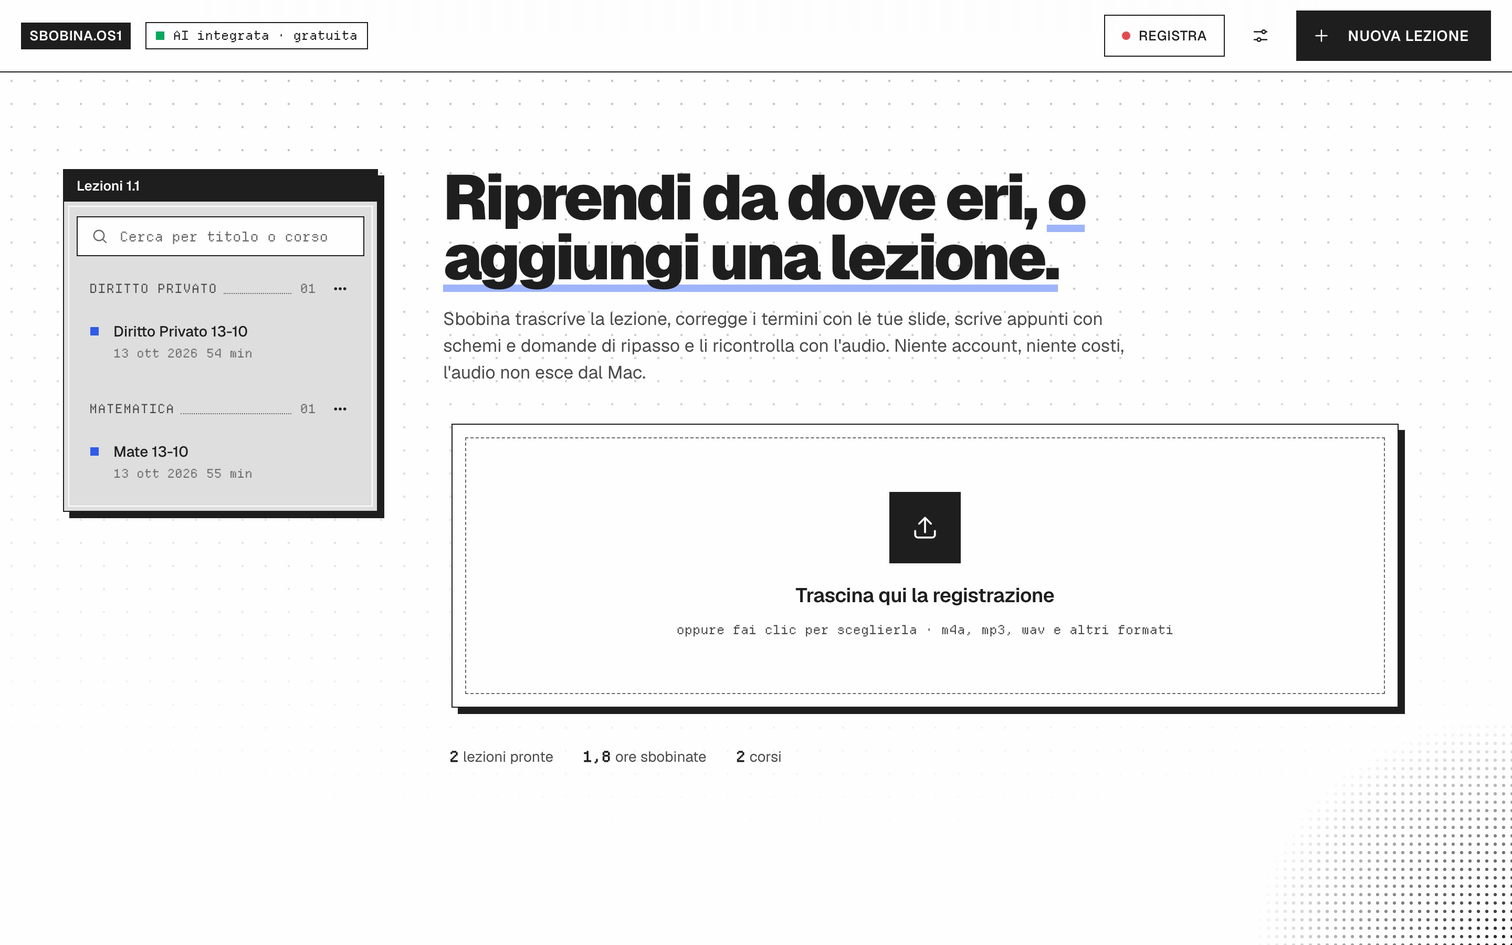
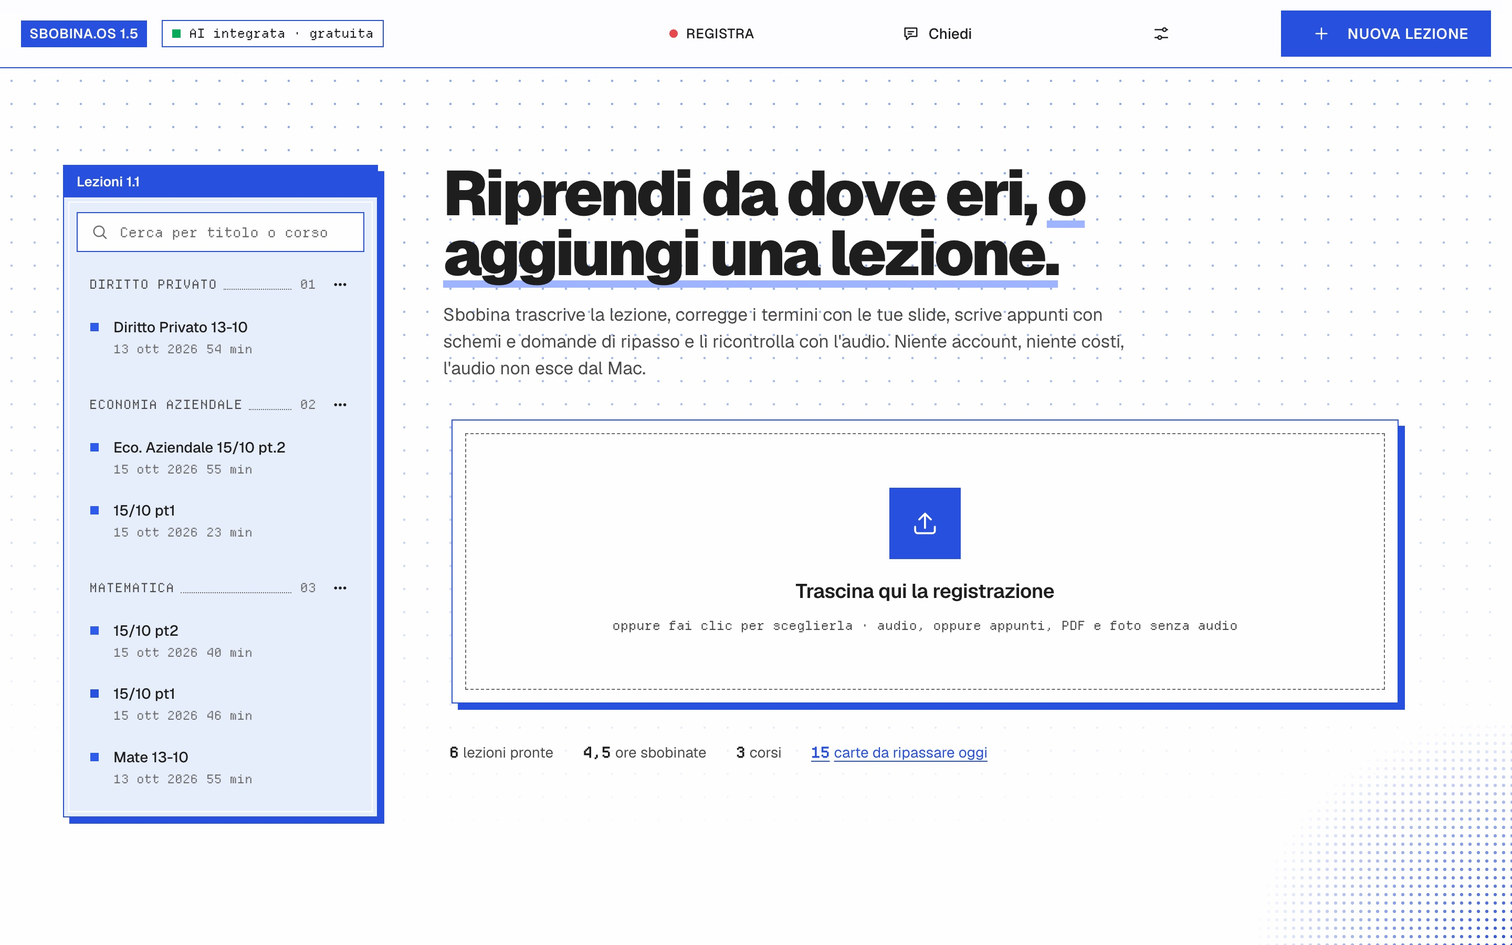
Versione 1.5.0: sito e README con nuove schermate (evidenziatore, Chiedi alle tue lezioni, widget), lezioni senza audio e inglese descritti, Windows indicato come 1.2

diff --git a/docs/index.html b/docs/index.html
@@ -32,7 +32,7 @@
 <!-- ============================ HERO ============================ -->
 <section class="hero" aria-labelledby="titolo">
   <div>
-    <p class="etichetta">Per studenti universitari · in italiano · gratis</p>
+    <p class="etichetta">Per studenti universitari · in italiano e in inglese · gratis</p>
     <h1 id="titolo">Dalla lezione registrata agli appunti, <span class="sotto">sul tuo computer.</span></h1>
   </div>
   <p class="lead">Sbobina prende la registrazione della lezione (nota vocale del telefono, registratore, file di Teams o Zoom) oppure registra dal microfono, e la trasforma in appunti completi per studiare e preparare l'esame: trascrizione corretta, schemi, mappa concettuale, glossario, domande di ripasso e PDF da stampare. Tutto gira sul tuo Mac o PC: niente account, niente costi, l'audio non esce dal computer.</p>
@@ -49,11 +49,8 @@
     <span class="chip">0 € a lezione</span>
   </div>
   <figure class="finestra schermo" style="margin:24px 0 0">
-    <div class="barra"><span>Sbobina 1.1</span><span class="mono">schermata iniziale</span></div>
-    <picture>
-      <source srcset="img/app-scuro.jpg" media="(prefers-color-scheme: dark)">
-      <img src="img/app-chiaro.jpg" width="2880" height="1800" alt="La schermata iniziale di Sbobina: le lezioni divise per corso a sinistra, il titolo «Riprendi da dove eri, o aggiungi una lezione» e la zona dove trascinare la registrazione.">
-    </picture>
+    <div class="barra"><span>Sbobina 1.5</span><span class="mono">schermata iniziale</span></div>
+    <img src="img/app-chiaro.jpg" width="2880" height="1800" alt="La schermata iniziale di Sbobina: le lezioni divise per corso a sinistra, il titolo «Riprendi da dove eri, o aggiungi una lezione», la zona dove trascinare registrazioni, appunti, PDF o foto e i numeri dello studio.">
   </figure>
 </section>
 
@@ -61,17 +58,23 @@
 <section id="schermate" aria-labelledby="t-schermate">
   <p class="etichetta">Dentro l'app</p>
   <h2 id="t-schermate">Com'è, <span class="sotto">davvero</span>.</h2>
-  <p class="lead">Schermate dell'app vera, con due lezioni del primo anno elaborate sul Mac.</p>
+  <p class="lead">Schermate dell'app vera (versione 1.5), con sei lezioni del primo anno elaborate sul Mac.</p>
   <div class="galleria">
     <figure class="finestra"><div class="barra"><span>Appunti</span><span class="mono">Matematica</span></div>
       <img src="img/app-appunti.jpg" width="2880" height="1800" loading="lazy" alt="Gli appunti di una lezione di matematica: lettore audio, schede Appunti, Approfondimento, Trascrizione, Verifica, Ripasso e Chiedi, un riquadro «In sintesi» e la mappa concettuale.">
       <figcaption>Appunti con sintesi, mappa concettuale e il minuto della registrazione accanto a ogni titolo.</figcaption></figure>
+    <figure class="finestra"><div class="barra"><span>Evidenziatore</span><span class="mono">4 colori</span></div>
+      <img src="img/app-evidenzia.jpg" width="2880" height="1800" loading="lazy" alt="Una definizione negli appunti con tre frasi evidenziate in giallo, rosa e verde; formule scritte in LaTeX.">
+      <figcaption>Evidenzia mentre studi, in quattro colori. Un clic sulla frase e l'evidenziazione sparisce.</figcaption></figure>
+    <figure class="finestra"><div class="barra"><span>Chiedi</span><span class="mono">tutte le lezioni</span></div>
+      <img src="img/app-chiedi.jpg" width="2880" height="1800" loading="lazy" alt="La pagina «Chiedi alle tue lezioni»: domande di partenza come «Quali argomenti ha detto che chiederà all'esame?», il campo per scrivere e il filtro per corso.">
+      <figcaption>Una domanda su tutte le lezioni insieme: la risposta dice in quale lezione e a che minuto.</figcaption></figure>
     <figure class="finestra"><div class="barra"><span>Verifica</span><span class="mono">rapporto</span></div>
-      <img src="img/app-verifica.jpg" width="2880" height="1800" loading="lazy" alt="La scheda Verifica: il giudizio sugli appunti, nessun problema trovato e i termini aggiunti al glossario del corso; sotto, i pulsanti Scarica il PDF, Stampa, Markdown, Trascrizione, Rielabora e Glossario.">
+      <img src="img/app-verifica.jpg" width="2880" height="1800" loading="lazy" alt="La scheda Verifica: il giudizio sugli appunti, nessun problema trovato e i termini aggiunti al glossario del corso; sotto, i pulsanti Scarica il PDF, Altri PDF, Stampa, Markdown, Trascrizione, Rielabora e Glossario.">
       <figcaption>Il controllo degli appunti contro la trascrizione e i termini aggiunti al glossario.</figcaption></figure>
     <figure class="finestra"><div class="barra"><span>Registra</span><span class="mono">● REC</span></div>
-      <img src="img/app-registra.jpg" width="2880" height="1800" loading="lazy" alt="Il registratore: il livello del segnale, il tempo 0:00, i campi Corso e Titolo e il pulsante Inizia a registrare.">
-      <figcaption>Registra dal microfono: alla fine gli appunti partono da soli.</figcaption></figure>
+      <img src="img/app-registra.jpg" width="2880" height="1800" loading="lazy" alt="Il registratore: il riquadro del segnale, il tempo 0:00, i campi Corso e Titolo e il pulsante Inizia a registrare.">
+      <figcaption>Registra dal microfono, oppure dal widget sempre in primo piano.</figcaption></figure>
     <figure class="finestra"><div class="barra"><span>Impostazioni</span><span class="mono">appunti · AI</span></div>
       <img src="img/app-impostazioni.jpg" width="2880" height="1800" loading="lazy" alt="Le impostazioni: lunghezza e stile degli appunti e gli interruttori per mappa, schemi, domande, glossario, indicazioni del docente, approfondimento e verifica.">
       <figcaption>Scegli lunghezza, stile e quali sezioni scrivere.</figcaption></figure>
@@ -136,14 +139,20 @@
       <p>Carte create dalla lezione e ripasso a scatole: quelle che sbagli tornano più spesso. Esportabili per Anki.</p></div></article>
     <article class="finestra"><div class="barra"><span>Quiz</span><span class="mono">A B C D</span></div><div class="corpo">
       <p>Domande a scelta multipla con la spiegazione di ogni risposta.</p></div></article>
-    <article class="finestra"><div class="barra"><span>Chiedi alla lezione</span><span class="mono">?</span></div><div class="corpo">
-      <p>Fai una domanda: la risposta cita il minuto della registrazione da cui viene.</p></div></article>
+    <article class="finestra"><div class="barra"><span>Chiedi</span><span class="mono">?</span></div><div class="corpo">
+      <p>Fai una domanda a una lezione o a tutte insieme, anche filtrando per corso: la risposta usa solo i tuoi appunti e dice da quale lezione e da che minuto viene.</p></div></article>
+    <article class="finestra"><div class="barra"><span>Evidenziatore</span><span class="mono">4 colori</span></div><div class="corpo">
+      <p>Seleziona una frase e scegli il colore. Le evidenziazioni restano finché l'app è aperta e non finiscono nel PDF.</p></div></article>
     <article class="finestra"><div class="barra"><span>Cerca</span><span class="mono">/</span></div><div class="corpo">
       <p>Cerca nel testo di tutte le lezioni di tutti i corsi.</p></div></article>
     <article class="finestra"><div class="barra"><span>Modifica</span><span class="mono">✎</span></div><div class="corpo">
       <p>Correggi o completa gli appunti a mano: le tue modifiche restano.</p></div></article>
     <article class="finestra"><div class="barra"><span>Registra</span><span class="mono">● REC</span></div><div class="corpo">
-      <p>Registra la lezione dal microfono, con il livello dell'audio in tempo reale. Alla fine gli appunti partono da soli.</p></div></article>
+      <p>Registra dal microfono, con il livello dell'audio in tempo reale. Il widget resta sopra le altre finestre, va in pausa e si chiude nella barra dei menu; con Stop salva la registrazione e gli appunti li crei quando vuoi.</p></div></article>
+    <article class="finestra"><div class="barra"><span>Senza audio</span><span class="mono">PDF · foto</span></div><div class="corpo">
+      <p>Niente registrazione? Sbobina crea gli appunti anche da soli appunti, PDF (pure scansionati) o foto della lavagna.</p></div></article>
+    <article class="finestra"><div class="barra"><span>English</span><span class="mono">IT · EN</span></div><div class="corpo">
+      <p>Interfaccia, appunti, PDF e trascrizione anche in inglese, per i corsi tenuti in inglese.</p></div></article>
   </div>
 </section>
 
@@ -181,7 +190,7 @@
     <a class="finestra download" href="https://github.com/swumpyyy/sbobina/releases/latest/download/Sbobina-macOS.dmg"><div class="barra"><span>macOS</span><span class="mono">.dmg</span></div><div class="corpo">
       <h3>Sbobina per Mac</h3><p>Mac con chip Apple (M1 o successivi), macOS 12 o più recente. Apri il .dmg e trascina Sbobina in Applicazioni.</p><span class="tasto pieno">Scarica per Mac</span></div></a>
     <a class="finestra download" href="https://github.com/swumpyyy/sbobina/releases/latest/download/Sbobina-Windows.zip"><div class="barra"><span>Windows</span><span class="mono">.zip</span></div><div class="corpo">
-      <h3>Sbobina per Windows</h3><p>Windows 10 o 11, consigliata una scheda NVIDIA. Estrai lo zip e fai doppio clic su <b>Installa Sbobina.bat</b>.</p><span class="tasto pieno">Scarica per Windows</span></div></a>
+      <h3>Sbobina per Windows</h3><p>Windows 10 o 11, consigliata una scheda NVIDIA. Estrai lo zip e fai doppio clic su <b>Installa Sbobina.bat</b>. Per ora è la versione 1.2: le novità più recenti arrivano più avanti.</p><span class="tasto pieno">Scarica per Windows</span></div></a>
   </div>
   <p class="nota">Al primo avvio su Mac: tasto destro sull'app → <b>Apri</b>, perché l'app non è ancora firmata da Apple. Tutte le versioni sono nella pagina <a href="https://github.com/swumpyyy/sbobina/releases">Releases di GitHub</a>.</p>
   <h3 style="margin-top:56px">Dal codice sorgente</h3>

diff --git a/docs/en/index.html b/docs/en/index.html
@@ -32,7 +32,7 @@
 <!-- ============================ HERO ============================ -->
 <section class="hero" aria-labelledby="title">
   <div>
-    <p class="etichetta">For university students · free</p>
+    <p class="etichetta">For university students · Italian and English · free</p>
     <h1 id="title">From the recorded lecture to study notes, <span class="sotto">on your own computer.</span></h1>
   </div>
   <p class="lead">Sbobina takes a lecture recording (a phone voice memo, a recorder, a Teams or Zoom file), or records from the microphone, and turns it into complete notes for studying and exam prep: a corrected transcript, outlines, a concept map, a glossary, review questions and a printable PDF. Everything runs on your Mac or PC. No account, no cost, and the audio never leaves your computer.</p>
@@ -48,13 +48,10 @@
     <span class="chip nudo">Gemma 4</span>
     <span class="chip">€0 per lecture</span>
   </div>
-  <p class="nota">Good to know: the app's interface and the notes it writes are in Italian, because it was built for Italian lectures.</p>
+  <p class="nota">Built for Italian lectures, and since 1.4.1 also in English: switch the language in Settings and the interface, the notes, the PDF and the transcription follow.</p>
   <figure class="finestra schermo" style="margin:24px 0 0">
-    <div class="barra"><span>Sbobina 1.1</span><span class="mono">home screen</span></div>
-    <picture>
-      <source srcset="../img/app-scuro.jpg" media="(prefers-color-scheme: dark)">
-      <img src="../img/app-chiaro.jpg" width="2880" height="1800" alt="Sbobina's home screen: lectures grouped by course on the left, the heading «Pick up where you left off, or add a lecture» and the area where you drop a recording.">
-    </picture>
+    <div class="barra"><span>Sbobina 1.5</span><span class="mono">home screen</span></div>
+    <img src="../img/app-chiaro.jpg" width="2880" height="1800" alt="Sbobina's home screen (Italian interface): lectures grouped by course on the left, the heading «Pick up where you left off, or add a lecture», the area where you drop recordings, notes, PDFs or photos, and your study numbers.">
   </figure>
 </section>
 
@@ -62,17 +59,23 @@
 <section id="screens" aria-labelledby="t-screens">
   <p class="etichetta">Inside the app</p>
   <h2 id="t-screens">What it <span class="sotto">really</span> looks like.</h2>
-  <p class="lead">Screenshots of the real app, with two first-year lectures processed on a Mac.</p>
+  <p class="lead">Screenshots of the real app (version 1.5, Italian interface), with six first-year lectures processed on a Mac.</p>
   <div class="galleria">
     <figure class="finestra"><div class="barra"><span>Notes</span><span class="mono">Maths</span></div>
       <img src="../img/app-appunti.jpg" width="2880" height="1800" loading="lazy" alt="Notes for a maths lecture: audio player, tabs for Notes, Deep dive, Transcript, Check, Review and Ask, an «In short» box and the concept map.">
       <figcaption>Notes with a summary, a concept map and the recording timestamp next to every heading.</figcaption></figure>
+    <figure class="finestra"><div class="barra"><span>Highlighter</span><span class="mono">4 colours</span></div>
+      <img src="../img/app-evidenzia.jpg" width="2880" height="1800" loading="lazy" alt="A definition in the notes with three phrases highlighted in yellow, pink and green; formulas typeset with LaTeX.">
+      <figcaption>Highlight while you study, in four colours. Click a phrase to remove it.</figcaption></figure>
+    <figure class="finestra"><div class="barra"><span>Ask</span><span class="mono">all lectures</span></div>
+      <img src="../img/app-chiedi.jpg" width="2880" height="1800" loading="lazy" alt="The «Ask your lectures» page: starter questions such as «Which topics did the teacher say will be on the exam?», the input field and the course filter.">
+      <figcaption>One question across all your lectures: the answer says which lecture and which minute it comes from.</figcaption></figure>
     <figure class="finestra"><div class="barra"><span>Check</span><span class="mono">report</span></div>
-      <img src="../img/app-verifica.jpg" width="2880" height="1800" loading="lazy" alt="The Check tab: the verdict on the notes, no problems found, and the terms added to the course glossary; below, buttons to download the PDF, print, export Markdown or the transcript, reprocess and open the glossary.">
+      <img src="../img/app-verifica.jpg" width="2880" height="1800" loading="lazy" alt="The Check tab: the verdict on the notes, no problems found, and the terms added to the course glossary; below, buttons to download the PDF or other PDFs, print, export Markdown or the transcript, reprocess and open the glossary.">
       <figcaption>The notes checked against the transcript, and the terms added to the course glossary.</figcaption></figure>
     <figure class="finestra"><div class="barra"><span>Record</span><span class="mono">● REC</span></div>
-      <img src="../img/app-registra.jpg" width="2880" height="1800" loading="lazy" alt="The recorder: the signal level, the 0:00 timer, Course and Title fields and the Start recording button.">
-      <figcaption>Record from the microphone: when you stop, the notes start by themselves.</figcaption></figure>
+      <img src="../img/app-registra.jpg" width="2880" height="1800" loading="lazy" alt="The recorder: the signal panel, the 0:00 timer, Course and Title fields and the Start recording button.">
+      <figcaption>Record from the microphone, or from the always-on-top widget.</figcaption></figure>
     <figure class="finestra"><div class="barra"><span>Settings</span><span class="mono">notes · AI</span></div>
       <img src="../img/app-impostazioni.jpg" width="2880" height="1800" loading="lazy" alt="Settings: length and style of the notes, and switches for the concept map, diagrams, questions, glossary, teacher's hints, deep dive and check.">
       <figcaption>Choose length, style and which sections to write.</figcaption></figure>
@@ -138,13 +141,19 @@
     <article class="finestra"><div class="barra"><span>Quiz</span><span class="mono">A B C D</span></div><div class="corpo">
       <p>Multiple-choice questions with an explanation for every answer.</p></div></article>
     <article class="finestra"><div class="barra"><span>Ask the lecture</span><span class="mono">?</span></div><div class="corpo">
-      <p>Ask a question: the answer cites the minute of the recording it comes from.</p></div></article>
+      <p>Ask one lecture or all of them at once, optionally filtered by course: the answer uses only your notes and says which lecture and minute it comes from.</p></div></article>
+    <article class="finestra"><div class="barra"><span>Highlighter</span><span class="mono">4 colours</span></div><div class="corpo">
+      <p>Select a phrase and pick a colour. Highlights last while the app is open and stay out of the PDF.</p></div></article>
     <article class="finestra"><div class="barra"><span>Search</span><span class="mono">/</span></div><div class="corpo">
       <p>Search the text of every lecture in every course.</p></div></article>
     <article class="finestra"><div class="barra"><span>Edit</span><span class="mono">✎</span></div><div class="corpo">
       <p>Fix or complete the notes by hand: your changes stay, and the AI version can be restored.</p></div></article>
     <article class="finestra"><div class="barra"><span>Record</span><span class="mono">● REC</span></div><div class="corpo">
-      <p>Record the lecture from the microphone with a live audio level. When you stop, the notes start by themselves.</p></div></article>
+      <p>Record from the microphone with a live audio level. The widget stays above other windows, pauses, and tucks into the menu bar; Stop saves the recording and you make the notes whenever you like.</p></div></article>
+    <article class="finestra"><div class="barra"><span>No audio</span><span class="mono">PDF · photos</span></div><div class="corpo">
+      <p>No recording? Sbobina also builds notes from your own notes, PDFs (scanned ones too) or photos of the board.</p></div></article>
+    <article class="finestra"><div class="barra"><span>Language</span><span class="mono">IT · EN</span></div><div class="corpo">
+      <p>Interface, notes, PDF and transcription in Italian or English, for courses taught in either language.</p></div></article>
   </div>
 </section>
 
@@ -182,7 +191,7 @@
     <a class="finestra download" href="https://github.com/swumpyyy/sbobina/releases/latest/download/Sbobina-macOS.dmg"><div class="barra"><span>macOS</span><span class="mono">.dmg</span></div><div class="corpo">
       <h3>Sbobina for Mac</h3><p>A Mac with an Apple chip (M1 or later), macOS 12 or newer. Open the .dmg and drag Sbobina into Applications.</p><span class="tasto pieno">Download for Mac</span></div></a>
     <a class="finestra download" href="https://github.com/swumpyyy/sbobina/releases/latest/download/Sbobina-Windows.zip"><div class="barra"><span>Windows</span><span class="mono">.zip</span></div><div class="corpo">
-      <h3>Sbobina for Windows</h3><p>Windows 10 or 11, an NVIDIA graphics card recommended. Extract the zip and double-click <b>Installa Sbobina.bat</b>.</p><span class="tasto pieno">Download for Windows</span></div></a>
+      <h3>Sbobina for Windows</h3><p>Windows 10 or 11, an NVIDIA graphics card recommended. Extract the zip and double-click <b>Installa Sbobina.bat</b>. For now this is version 1.2: the newest features come later.</p><span class="tasto pieno">Download for Windows</span></div></a>
   </div>
   <p class="nota">First launch on a Mac: right-click the app → <b>Open</b>, because the app is not signed by Apple yet. Every version is on the <a href="https://github.com/swumpyyy/sbobina/releases">GitHub Releases page</a>.</p>
   <h3 style="margin-top:56px">From source</h3>

diff --git a/sbobina/static/index.html b/sbobina/static/index.html
@@ -22,7 +22,7 @@
       <rect x=".5" y=".5" width="31" height="31" rx="9.5" fill="none" stroke="#fff" stroke-opacity=".35"/>
       <g stroke="#fff" stroke-width="2.4" stroke-linecap="round"><path d="M9 13v6M13 10v12M17 8v16M21 11v10M25 14v4"/></g>
     </svg>
-    <span>SBOBINA.OS 1.4</span>
+    <span>SBOBINA.OS 1.5</span>
   </a>
   <span class="stato-ai" id="stato-ai" role="status"></span>
   <span class="spazio"></span>

diff --git a/sbobina/__init__.py b/sbobina/__init__.py
@@ -5,4 +5,4 @@ import os
 # Il protocollo Xet di Hugging Face si blocca a pochi KB su questo Mac: scarica i modelli Whisper via HTTP.
 os.environ.setdefault("HF_HUB_DISABLE_XET", "1")
 
-__version__ = "1.4.0"
+__version__ = "1.5.0"

diff --git a/README.md b/README.md
@@ -24,10 +24,18 @@ per non far inventare nulla agli appunti.
 <table>
 <tr>
 <td><img src="docs/img/app-appunti.jpg" alt="Gli appunti di una lezione con sintesi e mappa concettuale"></td>
-<td><img src="docs/img/app-verifica.jpg" alt="Il rapporto di verifica degli appunti e i termini del glossario"></td>
+<td><img src="docs/img/app-evidenzia.jpg" alt="Frasi evidenziate in tre colori negli appunti"></td>
 </tr>
 <tr>
 <td align="center"><sub>Appunti con sintesi e mappa concettuale</sub></td>
+<td align="center"><sub>Evidenziatore in quattro colori</sub></td>
+</tr>
+<tr>
+<td><img src="docs/img/app-chiedi.jpg" alt="Chiedi alle tue lezioni"></td>
+<td><img src="docs/img/app-verifica.jpg" alt="Il rapporto di verifica degli appunti e i termini del glossario"></td>
+</tr>
+<tr>
+<td align="center"><sub>Chiedi a tutte le tue lezioni insieme</sub></td>
 <td align="center"><sub>Verifica degli appunti contro la trascrizione</sub></td>
 </tr>
 <tr>
@@ -35,12 +43,14 @@ per non far inventare nulla agli appunti.
 <td><img src="docs/img/app-impostazioni.jpg" alt="Le impostazioni degli appunti"></td>
 </tr>
 <tr>
-<td align="center"><sub>Registra dal microfono</sub></td>
+<td align="center"><sub>Registra dal microfono (o dal widget)</sub></td>
 <td align="center"><sub>Lunghezza, stile e sezioni degli appunti</sub></td>
 </tr>
 </table>
 
-> **English:** Sbobina turns lecture recordings into complete study notes (corrected transcript, outlines, concept map, glossary, review questions, PDF), fully on your own Mac or Windows PC, for free. The app and the notes are in Italian. [Read more in English →](https://sbobina.vercel.app/en/)
+<p align="center"><img src="docs/img/app-widget.png" alt="Il widget di registrazione: Registratore, Pronto a registrare, tasto Registra" width="400"><br><sub>Il widget di registrazione, sempre in primo piano</sub></p>
+
+> **English:** Sbobina turns lecture recordings into complete study notes (corrected transcript, outlines, concept map, glossary, review questions, PDF), fully on your own Mac or Windows PC, for free. Interface and notes in Italian or English (switch in Settings). [Read more in English →](https://sbobina.vercel.app/en/)
 
 ## Cosa ottieni per ogni lezione
 
@@ -58,8 +68,13 @@ per non far inventare nulla agli appunti.
   la trascrizione. **PDF di tutto il corso** con indice. Esportazione in **Markdown** e in una cartella
   per **Obsidian** (una nota per lezione, con collegamenti).
 - **Per studiare**: **flashcard** con ripasso a scatole (Leitner) ed esportazione per **Anki**, **quiz** a
-  scelta multipla con spiegazioni, **Chiedi alla lezione** (risposte che citano il minuto), **ricerca**
-  nel testo di tutte le lezioni, **modifica a mano** degli appunti.
+  scelta multipla con spiegazioni, **Chiedi** a una lezione o a **tutte le tue lezioni** insieme (risposte
+  che citano lezione e minuto), **evidenziatore** in quattro colori (resta finché l'app è aperta, non va
+  nel PDF), **ricerca** nel testo di tutte le lezioni, **modifica a mano** degli appunti.
+- **Widget di registrazione** sempre in primo piano: pausa, si chiude nella barra dei menu, con Stop salva
+  la registrazione e gli appunti li crei dopo, con corso e titolo.
+- **Lezioni senza audio**: appunti anche da soli appunti, PDF (pure scansionati) o foto della lavagna.
+- **In italiano o in inglese**: interfaccia, appunti, PDF e trascrizione (si sceglie nelle Impostazioni).
 - **Trascrizione che segue l'audio**: il paragrafo in ascolto si illumina, un clic e riascolti da lì;
   velocità 1×–2×.
 
@@ -97,7 +112,7 @@ aggiungendo il nome del docente).
 | Sistema | Download | Come si installa |
 |---|---|---|
 | macOS 12+ (Apple Silicon) | [Sbobina-macOS.dmg](https://github.com/swumpyyy/sbobina/releases/latest/download/Sbobina-macOS.dmg) | Apri il .dmg e trascina Sbobina in Applicazioni. Al primo avvio: tasto destro → **Apri** (l'app non è ancora firmata da Apple). |
-| Windows 10/11 | [Sbobina-Windows.zip](https://github.com/swumpyyy/sbobina/releases/latest/download/Sbobina-Windows.zip) | Estrai lo zip e fai doppio clic su **Installa Sbobina.bat**: installa Python e i pacchetti e mette Sbobina sul Desktop. Per ora è la versione 1.2: le novità della 1.4 arrivano su Windows più avanti. |
+| Windows 10/11 | [Sbobina-Windows.zip](https://github.com/swumpyyy/sbobina/releases/latest/download/Sbobina-Windows.zip) | Estrai lo zip e fai doppio clic su **Installa Sbobina.bat**: installa Python e i pacchetti e mette Sbobina sul Desktop. Per ora è la versione 1.2: le novità dalla 1.4 in poi arrivano su Windows più avanti. |
 
 Oppure dal codice sorgente:
 
